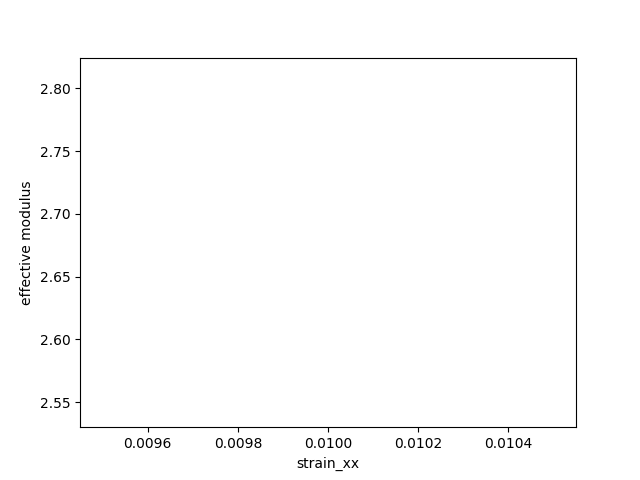
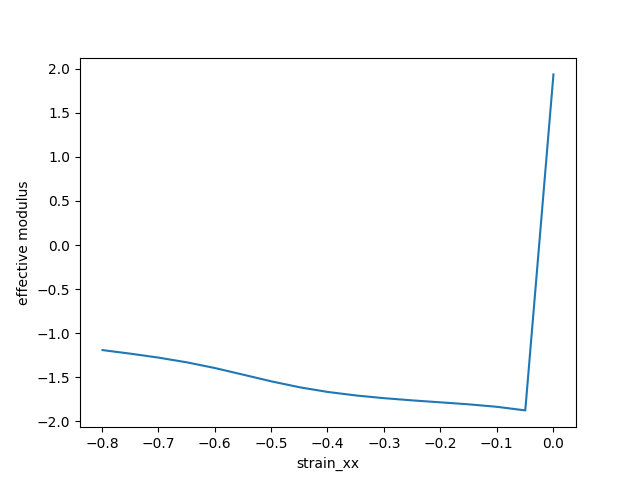
removed more code related to old connectivity matrix construction

diff --git a/hybridMSS_stress_strain_cython.py b/hybridMSS_stress_strain_cython.py
@@ -628,37 +628,25 @@ def read_init_file(fn):
 def main():
     E = 1
     nu = 0.49
-    l_e = .1
-    Lx = 1.0
-    Ly = 1.0
-    Lz = 1.0
+    l_e = .1#cubic element side length
+    Lx = 0.5
+    Ly = 0.5
+    Lz = 0.5
     dt = 1e-3
     N_iter = 1000
-
+    dimensions = [Lx,Ly,Lz]
     k = get_spring_constants(E, nu, l_e)
     kappa = get_kappa(E, nu)
 
 
     node_posns,elements,boundaries = discretize_space(Lx,Ly,Lz,l_e)
-    # creation_start = time.perf_counter()
-    # (c,s) = create_connectivity(node_posns,elements,k,l_e)
-    # creation_end = time.perf_counter()
-    # delta_original = creation_end-creation_start
-    # print("took {} seconds to create matrix by original method for {} by {} by {} system".format(delta_original,int(Lx/l_e),int(Ly/l_e),int(Lz/l_e)))
     # (sparse_connectivity,sparse_separation) = create_connectivity_sparse(node_posns,elements,k,l_e)
+    (c,s) = create_connectivity_v3(node_posns,k,l_e,dimensions)
 
-    # boundary_conditions = ('stress',('left','right'),10)
     boundary_conditions = ('strain',('left','right'),.05)
-    strains = np.array([0.01])
-    # strains = np.arange(-0.01,-0.21,-0.01)
-    dimensions = [Lx,Ly,Lz]
-    # new_start = time.perf_counter()
-    (c,s) = create_connectivity_v2(node_posns,k,l_e,dimensions)
-    # new_end = time.perf_counter()
-    # delta_new = new_end-new_start
-    # print("took {} seconds to create matrix by new method for {} by {} by {} system".format(delta_new,int(Lx/l_e),int(Ly/l_e),int(Lz/l_e)))
-    # plot_unit_cell(node_posns, c)
-    #posns = simulate(node_posns,c,s,(),100,1e-3)
+    # strains = np.array([0.01])
+    strains = np.arange(0.001,-0.81,-0.05)
+    
     effective_modulus = np.zeros(strains.shape)
     boundary_stress_xx_magnitude = np.zeros(strains.shape)
     count = 0
